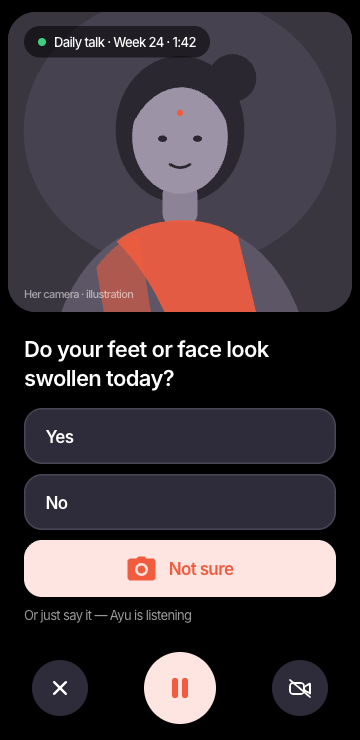
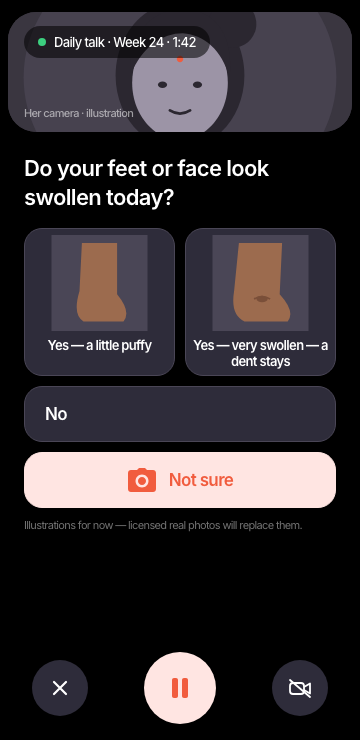
Live-tested on Gemini Live: prompt fixes, safer doctor note, screenshots
Seven short real sessions (headless Chrome, fake mic from recorded speech,
fake camera) covered picture cards, the Not sure camera turn, rules -> S10,
in English and Hindi. Fixes from what the model did:
- speak the language she chose in the app, not her profile language
- no card on open questions; card questions are short questions
- one danger sign per yes/no card, multi-choice for several
- no disclaimers; call finish_talk after an urgent rule result
- app finishes the talk 25 s after see_today/emergency if the model has not
- S13 note may not state the referral level; a note that sounds routine on
  see_today/emergency is dropped; rule ids shown in words
- 360 px screenshots of the new and changed screens, mock and live

diff --git a/shared/live-config.js b/shared/live-config.js
@@ -37,17 +37,18 @@ You are on a daily 5-minute talk with the woman below. You can hear her; you can
 ${personaContext(persona)}
 
 How to talk
-- Speak ${LANG_NAME[lang] || 'her language'} by default${lang === 'hi' ? ' (simple spoken Hindi, Devanagari script on cards, not Urdu-heavy or formal words)' : ''}. If she speaks another Indian language, switch to it. Short, simple sentences. One question at a time.
-- Write every card's question and options in the language you are speaking. Her own words (her_words) stay exactly as she said them.
+- She chose ${LANG_NAME[lang] || 'English'} in the app. Speak ${LANG_NAME[lang] || 'English'}${lang === 'hi' ? ' (simple spoken Hindi, not formal or Urdu-heavy words)' : ''}, even though her profile lists another language. Switch only if SHE speaks to you in another language. Short, simple sentences. One question at a time.
+- Write every card's question and options in the language you are speaking${lang === 'hi' ? ', in Devanagari script' : ''}. Her own words (her_words) stay exactly as she said them.
 - Talk like a good Indian doctor taking a history: ask, wait, listen to her words, then offer 2–3 ways to describe it when she is unsure.
-- Every question you ask MUST also be shown as a card with a tool:
-  ask_yes_no, ask_single_choice or ask_multi_choice. Keep talking while the card is on screen; she may tap or speak.
+- Open questions ("How are you today?", "Tell me more") have NO card. Every closed question (yes/no, pick one, pick all) MUST also be shown as a card with a tool:
+  ask_yes_no, ask_single_choice or ask_multi_choice. A card question is one short question (at most 12 words), never advice or a statement. Keep talking while the card is on screen; she may tap or speak.
 - Always keep an honest way out: "Not sure" (yes/no) or "Something else" (choices).
 - When words are unclear (swelling, yellow skin, stool colour, which tablet), use a picture_set so she can pick the picture that looks like hers.
 - Ask for a photo (ask_photo) only of a medicine strip or box, a face-free patch of skin, her feet, or a document. Never ask for private body parts or her face.
 - A yes/no card's "Not sure" is a camera button. When she taps it, her back camera turns on and you get video frames (about one per second). Say in one or two short sentences what you see (for example "I can see your ankles look puffy"), never a diagnosis, then ask her to confirm. Only look at the thing she was asked to show; if her face or a private body part is in view, ask her to point the camera away.
-- After she answers a symptom question, call record_symptom with her own words.
-- After danger-sign questions, call red_flag_check. The fixed rules decide the referral, not you. Explain the result calmly in her language.
+- One danger sign per yes/no card (set its sign). To ask about several danger signs at once, use ask_multi_choice with one option per sign, so only the ones she picks count.
+- After she answers a symptom question, call record_symptom with what SHE said (her words, not your question). In red_flag_check, extra_signs are only signs she clearly said she has.
+- After danger-sign questions, call red_flag_check. The fixed rules decide the referral, not you. Explain the result calmly in her language. If the result is see_today or emergency, say it in two or three sentences and then call finish_talk; the app shows her where to go.
 - If you are worried even though the rules said nothing, call add_referral. You can never cancel or lower a referral.
 - Pregnant after 20 weeks: when it fits, ask one birth-plan question (hospital, transport, who comes, money, bag, blood donor) and save her answer with update_plan.
 - The talk is 5 minutes. When you get "[Time is nearly up]" wrap up; when you get "[Time is up]" call red_flag_check and finish_talk right away.
@@ -58,6 +59,7 @@ Never
 - Never tell her to stop, skip or change a medicine. If a medicine troubles her, give simple tips and say Ayu will ask the doctor.
 - Never recommend a painkiller or any medicine.
 - Never ask for her Aadhaar, bank details or OTP.
+- No disclaimers like "this is not medical advice"; the app already says so. Just say what to do next, kindly.
 - Danger signs (bleeding, fits, severe headache with swelling or blurred vision, baby moving less, water leaking, high fever) always go through red_flag_check.
 
 Start by greeting her by name in one line and asking how she is today.`;

diff --git a/shared/doctor-summary.js b/shared/doctor-summary.js
@@ -23,6 +23,31 @@ const PLAN_LABEL = {
   blood_donor: 'Blood donor',
 };
 const MAX_LINES = 14; // ~2 minutes of reading
+const MAX_ANSWERS = 6;
+
+const signText = (x) => (SIGN[x] ? SIGN[x].toLowerCase() : x.replace(/_/g, ' '));
+
+/** Rule id → words a doctor reads at a glance. */
+export function ruleText(rule) {
+  if (!rule) return '';
+  const [kind, what = '', extra] = rule.split(':');
+  if (kind === 'pair') return `two signs together: ${what.split('+').map(signText).join(' + ')}${extra === 'after20w' ? ' (after 20 weeks)' : ''}`;
+  if (kind === 'alone') return `${signText(what)} on its own`;
+  if (kind === 'count') return 'two or more danger signs together';
+  if (kind === 'emergency') return what === 'yellow_day0' ? 'yellow skin on the first day of life' : `${signText(what)} — emergency sign`;
+  if (kind === 'mood') return 'low mood — check again';
+  if (kind === 'watch') return `${signText(what)} — watch`;
+  return rule;
+}
+
+/**
+ * A model-written note must never soften what the fixed rules decided.
+ * True when the note sounds routine/reassuring while the level is see_today or emergency.
+ */
+export function noteContradicts(level, note = '') {
+  if (!['see_today', 'emergency'].includes(level)) return false;
+  return /\b(routine|no (urgent|immediate|danger|concern|red flag)|non-?urgent|not urgent|normal|reassur|nothing to worry|all fine|stable)\b/i.test(note);
+}
 
 const yesNo = (a) => (a === 'yes' ? 'yes' : a === 'no' ? 'no' : a === 'not_sure' ? 'not sure' : a);
 
@@ -57,7 +82,7 @@ export function buildDoctorSummary({ persona: p, talk, now = Date.now() }) {
     const lines = [`${r.level === 'none' ? 'dot' : r.level === 'watch' ? 'dot' : 'warn'}|${LEVEL_TEXT[r.level] || r.level} (talk ${when} UTC)`];
     const ruleSigns = (talk.signs || []).filter((s) => SIGN[s]);
     if (ruleSigns.length) lines.push(`warn|Danger signs reported: ${ruleSigns.map((s) => SIGN[s].toLowerCase()).join(', ')}`);
-    if (r.rule) lines.push(`dot|Rule: ${r.rule}`);
+    if (r.rule) lines.push(`dot|Rule: ${ruleText(r.rule)}`);
     for (const why of (r.reasons || []).filter((x) => x.startsWith('model:'))) lines.push(`dot|Ayu raised it: ${why.slice(7).trim()}`);
     push('today', 'Today', lines);
   } else {
@@ -71,7 +96,9 @@ export function buildDoctorSummary({ persona: p, talk, now = Date.now() }) {
       const bits = [s.since, s.severity && s.severity !== 'unknown' ? s.severity : null].filter(Boolean).join(', ');
       lines.push(`${s.sign && s.sign !== 'other' ? 'warn' : 'dot'}|“${s.her_words}”${bits ? ` (${bits})` : ''}`);
     }
-    for (const a of talk.answers || []) if (a.kind !== 'photo') lines.push(`dot|${answerLine(a)}`);
+    const answers = (talk.answers || []).filter((a) => a.kind !== 'photo');
+    for (const a of answers.slice(-MAX_ANSWERS)) lines.push(`dot|${answerLine(a)}`);
+    if (answers.length > MAX_ANSWERS) lines.unshift(`dot|${answers.length - MAX_ANSWERS} earlier answers not shown`);
     push('words', 'What she said', lines);
     const shown = (talk.photos || []).map((x) => `dot|${x.kind === 'video' ? 'Showed on camera' : 'Photo'}: ${x.purpose.replace('_', ' ')} (not stored)`);
     push('photos', 'Shown to Ayu', shown);

diff --git a/server/lib/api.js b/server/lib/api.js
@@ -12,7 +12,7 @@
 import { GoogleGenAI } from '@google/genai';
 import { buildLiveConfig, DEFAULT_MODEL, API_VERSION } from '../../shared/live-config.js';
 import { getPersona } from '../../shared/personas.js';
-import { buildDoctorSummary } from '../../shared/doctor-summary.js';
+import { buildDoctorSummary, noteContradicts } from '../../shared/doctor-summary.js';
 import { checkOrigin, rateLimit, takeDaily, envInt } from './guard.js';
 
 const LANGS = ['en', 'hi', 'mr'];
@@ -102,7 +102,10 @@ export async function handleApi(route, req, deps = {}) {
     if (!rateLimit('summary', req.ip, { limit: s.summaryPerMin })) return out(429, { error: 'Too many requests.', summary: det.text });
     if (!takeDaily('summary', s.summaryCap)) return out(200, { note: null, source: 'deterministic', summary: det.text, cap: true });
     try {
+      const level = sanitizeTalk(body.talk)?.referral.level || 'none';
       const note = await (deps.writeNote || writeNote)({ key: s.key, model: s.summaryModel, text: det.text });
+      // The rules decide the level; a note that softens it is dropped.
+      if (noteContradicts(level, note)) return out(200, { note: null, source: 'deterministic', summary: det.text, dropped: 'contradicts referral' });
       return out(200, { note, source: 'model', model: s.summaryModel, summary: det.text });
     } catch (err) {
       console.error('[summary]', err?.message || err);
@@ -156,8 +159,9 @@ async function mintToken({ key, model, config }) {
 }
 
 const NOTE_PROMPT = `You write a handover note for a busy doctor in India.
-Rewrite the summary below as at most 3 short sentences (under 70 words), in English.
-Use only facts in the summary. Lead with the referral level and the danger signs. Quote her own words if they matter.
+Rewrite the summary below as at most 3 short sentences (under 60 words), in English.
+Use only facts in the summary. Start with the danger signs she reported, then what she said in her own words, then anything from her record that matters (BP trend, Hb, missed tablets).
+Do NOT state or judge the referral level or urgency — the fixed rules already show it above your note.
 Do not diagnose, do not suggest or change medicines, do not add advice.
 
 Summary:

diff --git a/src/screens/Talk.jsx b/src/screens/Talk.jsx
@@ -59,6 +59,7 @@ export function TalkScreen({ demo, forceMock, net }) {
   const engineRef = useRef(null);
   const turnRef = useRef({ who: null, done: true });
   const finishedRef = useRef(false);
+  const urgentTimer = useRef(null);
   const camTurnRef = useRef(null);
   camTurnRef.current = camTurn;
 
@@ -95,6 +96,7 @@ export function TalkScreen({ demo, forceMock, net }) {
     })();
     return () => {
       alive = false;
+      clearTimeout(urgentTimer.current);
       off?.();
       engineRef.current?.end();
       engineRef.current = null;
@@ -134,6 +136,11 @@ export function TalkScreen({ demo, forceMock, net }) {
   }
 
   function onEvent(e) {
+    // Dev only: a log the browser tests read (tool calls, cards, referral, finish).
+    if (import.meta.env.DEV && e.type !== 'level' && e.type !== 'caption') {
+      (window.__ayuTalkLog ||= []).push({ t: Date.now(), type: e.type, name: e.name, args: e.args, card: e.card?.kind, level: e.referral?.level, status: e.status, detail: e.detail });
+    }
+    if (import.meta.env.DEV && e.type === 'caption') (window.__ayuCaptions ||= []).push(`${e.who}:${e.text}`);
     switch (e.type) {
       case 'status':
         setStatus(e.status);
@@ -162,6 +169,14 @@ export function TalkScreen({ demo, forceMock, net }) {
         break;
       case 'card':
         setCard(e.card);
+        break;
+      case 'referral':
+        // The rules said see today / call 108: if the model has not finished 25 s later, the app does.
+        if ((e.referral.level === 'see_today' || e.referral.level === 'emergency') && !urgentTimer.current) {
+          urgentTimer.current = setTimeout(() => {
+            if (!finishedRef.current) engineRef.current?.finishLocal('rules');
+          }, 25000);
+        }
         break;
       case 'tool-cancel':
         setCard((c) => (c?.callId && e.ids.includes(c.callId) ? null : c));

diff --git a/test/doctor-summary.test.js b/test/doctor-summary.test.js
@@ -69,3 +69,17 @@ test('model-raised referral is shown as raised by Ayu', () => {
   const sum = buildDoctorSummary({ persona: p, talk: snapshotTalk(s) });
   assert.match(sum.text, /Ayu raised it: vomiting every day for a week/);
 });
+
+test('rule ids are shown in words', async () => {
+  const { ruleText } = await import('../shared/doctor-summary.js');
+  assert.equal(ruleText('pair:severe_headache+swelling_face_hands:after20w'), 'two signs together: headache that won’t go + swelling of face or hands (after 20 weeks)');
+  assert.equal(ruleText('alone:bleeding'), 'bleeding or fluid on its own');
+});
+
+test('a model note that softens a see-today referral is caught', async () => {
+  const { noteContradicts } = await import('../shared/doctor-summary.js');
+  assert.equal(noteContradicts('see_today', 'Routine referral level. Danger signs: headache.'), true);
+  assert.equal(noteContradicts('emergency', 'No urgent concern.'), true);
+  assert.equal(noteContradicts('see_today', 'She reports headache and face swelling at 34 weeks; BP rose to 138/92.'), false);
+  assert.equal(noteContradicts('none', 'Routine check.'), false);
+});

diff --git a/test/talk-state.test.js b/test/talk-state.test.js
@@ -163,7 +163,9 @@ test('camera turn: purpose never asks for a face; the cue keeps the photo rules'
 
 test('Hindi: prompt tells the model to speak Hindi and write cards in Hindi; opening nudge too', () => {
   const cfg = buildLiveConfig({ persona: getPersona('reena'), lang: 'hi' });
-  assert.match(cfg.systemInstruction, /Speak Hindi by default/);
+  assert.match(cfg.systemInstruction, /She chose Hindi in the app. Speak Hindi/);
+  assert.match(cfg.systemInstruction, /in Devanagari script/);
+  assert.match(cfg.systemInstruction, /Open questions .* have NO card/);
   assert.match(cfg.systemInstruction, /Write every card's question and options in the language you are speaking/);
   assert.match(openingNudge('hi'), /in Hindi/);
   const names = cfg.tools[0].functionDeclarations.map((f) => f.name);

diff --git a/test/server.test.js b/test/server.test.js
@@ -110,3 +110,10 @@ test('guards: rate window slides; daily counter resets on a new day; ip from x-f
   assert.equal(takeDaily('d', 1, day1 + 86_400_000), true);
   assert.equal(clientIp({ 'x-forwarded-for': '9.9.9.9, 10.0.0.1' }), '9.9.9.9');
 });
+
+test('summary: a note that contradicts the rules is dropped', async () => {
+  const talk = { signs: ['bleeding'], referral: { level: 'see_today' }, answers: [], symptoms: [] };
+  const out = await handleApi('summary', req({ body: { persona: 'sunita', talk } }), { writeNote: async () => 'Routine follow-up, no urgent concern.' });
+  assert.equal(out.body.note, null);
+  assert.equal(out.body.dropped, 'contradicts referral');
+});

diff --git a/shared/talk-state.js b/shared/talk-state.js
@@ -141,9 +141,9 @@ export function handleTool(state, name, args) {
           reasons: r.reasons,
           instruction:
             r.level === 'emergency'
-              ? 'Tell her to call 108 now. Stay calm and short.'
+              ? 'Tell her to call 108 now. Stay calm and short. Then call finish_talk.'
               : r.level === 'see_today'
-                ? 'Tell her to see a doctor today, why in one line, and to keep taking her tablets.'
+                ? 'Tell her to see a doctor today, why in one line, and to keep taking her tablets. Then call finish_talk.'
                 : 'No danger sign by the rules. Continue the talk.',
         },
       };

diff --git a/src/styles.css b/src/styles.css
@@ -1163,3 +1163,7 @@ a {
 .summary > div:first-of-type .sum-h {
   margin-top: 4px;
 }
+
+.checklist li > span:last-child {
+  overflow-wrap: anywhere;
+}

diff --git a/README.md b/README.md
@@ -28,7 +28,7 @@ pnpm i && pnpm dev
 - Token server: http://localhost:8787 (`/api/health`, `/api/live-token`).
 - Without `GEMINI_API_KEY` everything runs in **mock mode**: a scripted Ayu emits exactly the same events (captions, tool calls, cards, referral) as the real model.
 
-Other scripts: `pnpm test` (red-flag rules), `pnpm build`, `pnpm start` (serve `dist/` + API in production), `pnpm icons`, `pnpm scan` (gitleaks).
+Other scripts: `pnpm test` (red-flag rules, talk-state tools, doctor summary, server guards), `pnpm build`, `pnpm start` (serve `dist/` + API in production), `pnpm icons`, `pnpm scan` (gitleaks).
 
 ### Demo paths
 
@@ -37,6 +37,7 @@ Other scripts: `pnpm test` (red-flag rules), `pnpm build`, `pnpm start` (serve `
 | `#/` → `#/otp` → `#/today` | S1 phone number → S2 OTP (**any 6 digits work**) → S3 today |
 | `#/talk` | The full talk: Gemini Live if the server has a key, otherwise the mock. Add `?mode=mock` to force mock. |
 | `#/talk?demo=yesno` · `followup` · `danger` · `weak` | S4–S7 as in Figma, clickable through to S10 / S11 |
+| `#/talk?mode=mock&net=weak` | A real (mock) talk that drops to S7 → S8 and keeps what she said |
 | `#/phone` · `#/photo` · `#/next` · `#/fine` · `#/plan` · `#/share` | S8 · S9 · S10 · S11 · S12 · S13 |
 | `#/flows/a/1` · `#/flows/b/1` · `#/flows/c/1` | Flow A (week 9, Meera) · Flow B (week 34, Reena) · Flow C (day 5 after birth, Anita) |
 | `#/asha` | The one ASHA screen: “3 things to check” |
@@ -67,6 +68,8 @@ What was checked against Google’s docs on 12 Nov 2026 ([Live API](https://aist
 | Camera | JPEG frames, at most 1 per second |
 | Transcripts | `inputAudioTranscription` + `outputAudioTranscription` |
 | Tools | function calling; the card tools are `NON_BLOCKING` so the voice keeps going (`LIVE_ASYNC_TOOLS=false` for models without async tools) |
+
+Checked end to end on 13 Nov 2026 in headless Chrome (fake mic from recorded speech, fake camera): picture card → “Not sure” camera turn → the model describes what it sees → danger card → fixed rule → `finish_talk` → S10, in English and Hindi. Screenshots: `docs/screenshots/live-gemini-*.png`.
 
 Smoke-tested on 12 Nov 2026: token from our server → `gemini-3.8-live` → audio + captions → `record_symptom` → `red_flag_check` fired the fixed “headache + face swelling” rule → `see_today`.
 
@@ -110,7 +113,15 @@ flowchart LR
 4. `record_symptom` saves what she said in her own words. `red_flag_check` runs the **fixed rules** and returns the level Ayu must follow. Danger signs she taps go to the rules directly, without passing through the model.
 5. `finish_talk` ends the talk. The app shows S10 (see someone today / call 108) or S11 (all fine) based on the rules.
 
-`ask_single_choice` and the not-sure answer can use a `picture_set` (`feet_swelling`, `baby_skin_colour`, `stool_colour`, `medicine_strip`), so she can pick the picture that looks like hers.
+**“Not sure” is a camera button** (UI rule 1). Tapping it turns the talk into a camera turn: her back camera streams JPEG frames (≤1 fps) to the model with a cue to say in one or two sentences what it sees (never a diagnosis; feet, face-free skin, a medicine strip or a document only), then she confirms or picks a picture. The mock engine plays the same turn with a scripted line.
+
+`update_plan` saves birth/travel-plan items from the talk (S12 shows them as “updated in today’s talk”). When the talk ends (`finish_talk`, ✕, a dropped socket or the 5-minute limit), the app saves a snapshot of the talk; S10 / S11 / S13 read only that snapshot.
+
+**S13 doctor summary** ([`shared/doctor-summary.js`](shared/doctor-summary.js)) is deterministic: the fixed-rule result, the danger signs, her own words, the card answers, what she showed on camera, her BP/Hb/adherence and plan changes, in English for the doctor. If the server has a key, `/api/summary` adds a ≤60-word note written by a small text model from the same facts; the note may not state the referral level, and a note that sounds routine while the rules say “see today” is dropped.
+
+**Weak network → S7 → S8:** `navigator.connection` (2G, RTT > 1.5 s, downlink < 0.15 Mbps), the `offline` event, two slow health pings (live mode) or the Live socket dropping before the talk is done. S8 keypad answers go through the same talk state and fixed rules, so a talk that started on video carries on by phone.
+
+`ask_single_choice` and yes/no cards can use a `picture_set` (`feet_swelling`, `baby_skin_colour`, `stool_colour`, `medicine_strip`), so she can pick the picture that looks like hers.
 
 ## Safety rules in code
 
@@ -134,14 +145,36 @@ shared/            used by server and browser
   live-config.js   model id, system prompt, tool declarations
   talk-state.js    local tool handlers, referral state
   personas.js      mock personas (Sunita, Meera, Reena, Anita)
-server/            Express: token minting, static hosting, phone stub
+  doctor-summary.js  the 2-minute summary for the doctor (S13)
+server/            Express: static hosting, phone stub
+  lib/             API handlers + guards shared with the Vercel functions
+api/               Vercel functions (health, live-token, summary)
 src/live/          audio capture/playback, Gemini engine, mock engine
 src/screens/       S1–S13, flows, ASHA, /call-test, index
 src/i18n/          en.js + hi.js (every UI string)
 docs/screenshots/  screenshots at 360 px
+docs/GAPS.md       what is built vs Figma, and what is still mock
 ```
 
 ## Deploy
+
+### Vercel (PWA + token server as functions)
+
+`vercel.json` builds the PWA (`pnpm build` → `dist/`) and serves `api/health.js`, `api/live-token.js` and `api/summary.js` as Node functions in `bom1` (Mumbai). They share `server/lib/api.js` with the Express server, so both enforce the same rules:
+
+| Env var | Default | |
+|---|---|---|
+| `GEMINI_API_KEY` | — | required for live mode; never sent to the browser |
+| `ALLOWED_ORIGINS` | — | comma list of browser origins allowed to call the POST endpoints. The API's own host is always allowed. Requests **without** an `Origin` header (the React Native app, curl) are allowed and go through the same rate limit and cap. Any other origin gets 403. |
+| `LIVE_TOKEN_DAILY_CAP` | 200 | tokens per UTC day |
+| `LIVE_TOKEN_PER_MIN` | 6 | tokens per IP per minute |
+| `SUMMARY_MODEL` | `gemini-flash-lite-latest` | S13 note |
+| `SUMMARY_DAILY_CAP` / `SUMMARY_PER_MIN` | 300 / 10 | |
+| `GEMINI_LIVE_MODEL`, `LIVE_ASYNC_TOOLS` | `gemini-3.8-live`, true | |
+
+**Limitation:** the rate limit and the daily cap are kept in memory per function instance (a cold start resets them; several warm instances each have their own count). Fine for a demo; use a shared store (e.g. Upstash Redis) before real traffic.
+
+### Others
 
 - **GitHub Pages (static, mock mode)** is deployed by [`.github/workflows/pages.yml`](.github/workflows/pages.yml) on every push to `main`. With no server, the app stays in mock mode.
 - **Token server (live mode)** needs its own host, because GitHub Pages can only serve static files. Run `pnpm build && pnpm start` on any Node host (Cloud Run in `asia-south1` Mumbai, Render, Railway, Fly.io) with `GEMINI_API_KEY` and `ALLOWED_ORIGINS=https://gamingflexer.github.io` set. Then set the repository variable `LIVE_SERVER_URL` to that host’s URL and re-run the Pages workflow. The same server can also serve the PWA itself.

diff --git a/docs/GAPS.md b/docs/GAPS.md
@@ -21,7 +21,10 @@ Status: **built** = done in this round (see the commit log), **design-only** = s
 | T8 | Hindi: UI strings existed, but the model was not told to write the **card text** in Hindi, and the opening nudge was English. | — | built |
 | T9 | No tool for the birth/travel plan, so S12 could not change from a talk. | S12 "built inside daily talks" | built (`update_plan`) |
 | T10 | Session resumption (`goAway` → resume handle) is not handled; a talk longer than the session limit just ends. | — | open (5-min talk is inside the limit) |
-| T11 | Real Gemini Live not tested in this round (no key on this machine). The mock emits the same events. | — | open |
+| T11 | Real Gemini Live end to end. | — | built + checked 13 Nov in headless Chrome with a fake mic/camera (7 short sessions): picture card via `ask_yes_no`, camera turn ("I can see your feet and ankles look a bit puffy"), `record_symptom` → `red_flag_check` → `finish_talk` → S10, in English and Hindi |
+| T12 | Live findings fixed in the prompt: the model followed her profile language (spoke Romanized Marathi in an English session), put a card on "how are you?", wrote advice as a card question, bundled 3 signs into one yes/no, added "not medical advice" disclaimers, and did not always call `finish_talk` after see_today. | — | built (prompt) + app finishes 25 s after an urgent rule result if the model has not |
+| T13 | The model may still over-attribute signs in `red_flag_check.extra_signs` (only ever raises a referral, never lowers). | rules decide | open — watch in review |
+| T14 | S13 model note once said "Routine referral level" while the rules said see today. | rules decide | built: the note may not state the level; a note that sounds routine on see_today/emergency is dropped (`noteContradicts`) |
 
 ## Core screens S1–S13
 
